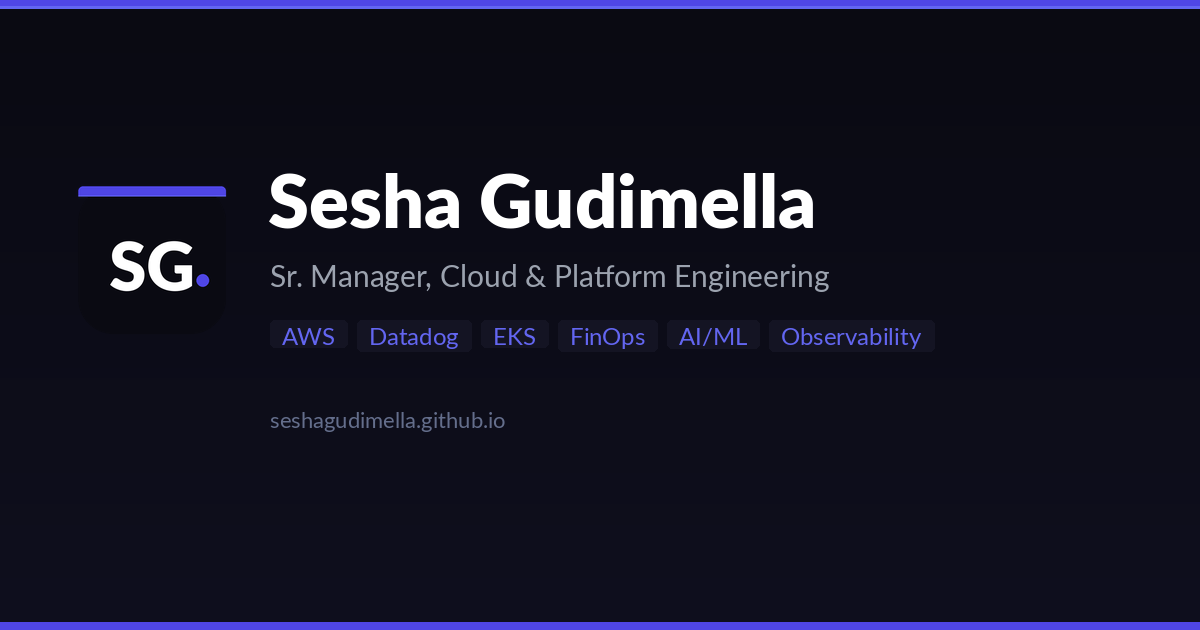
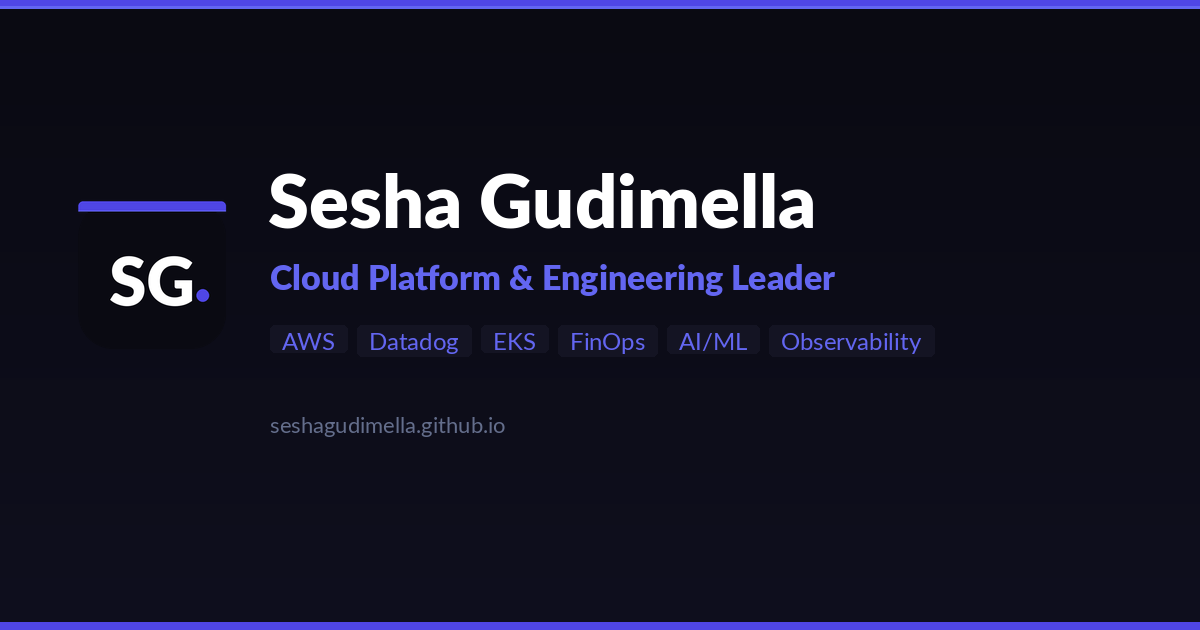
title change

diff --git a/index.html b/index.html
@@ -13,7 +13,7 @@
 
     <!-- Social / OG preview -->
     <meta property="og:title" content="Sesha Gudimella — Cloud Engineering Leader" />
-    <meta property="og:description" content="Sr. Manager, Cloud &amp; Platform Engineering. AWS · Datadog · EKS · FinOps · AI/ML · Observability." />
+    <meta property="og:description" content="Cloud Platform &amp; Engineering Leader. AWS · Datadog · EKS · FinOps · AI/ML · Observability." />
     <meta property="og:image" content="https://seshagudimella.github.io/og-image.png" />
     <meta property="og:url" content="https://seshagudimella.github.io" />
     <meta property="og:type" content="website" />

diff --git a/src/components/Hero.jsx b/src/components/Hero.jsx
@@ -30,7 +30,7 @@ export default function Hero() {
   return (
     <section id="hero">
       <div className="hero-text">
-        <div className="eyebrow-pill">Cloud &amp; Platform Engineering Leader</div>
+        <div className="eyebrow-pill">Cloud Platform &amp; Engineering Leader</div>
         <h1 className="hero-headline">
           I build systems that<br />scale <span className="gradient-text">teams,</span><br />not just infrastructure.
         </h1>
